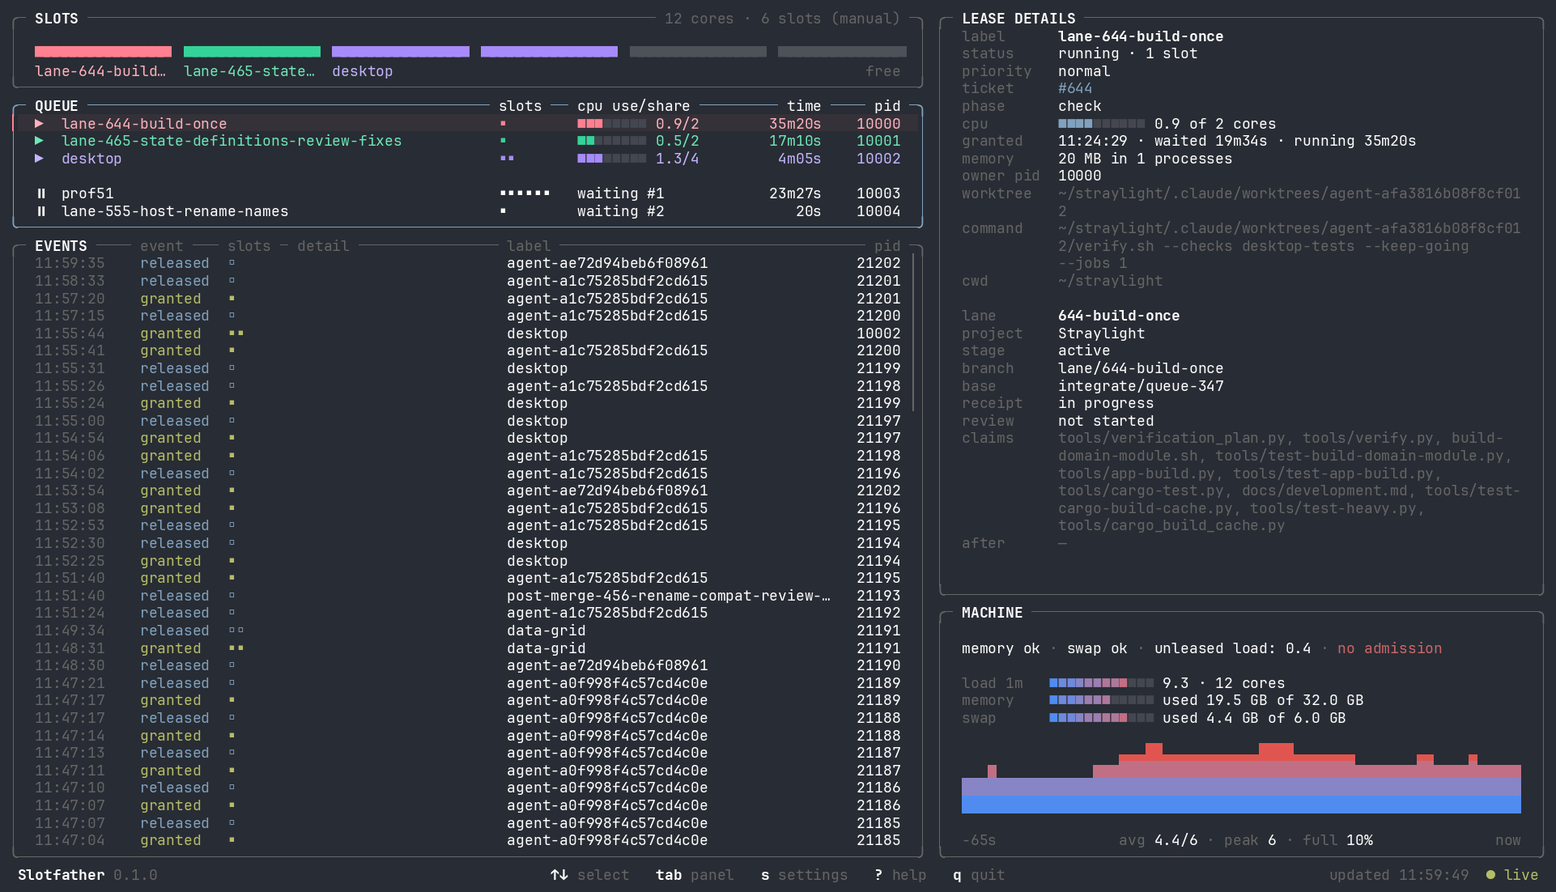
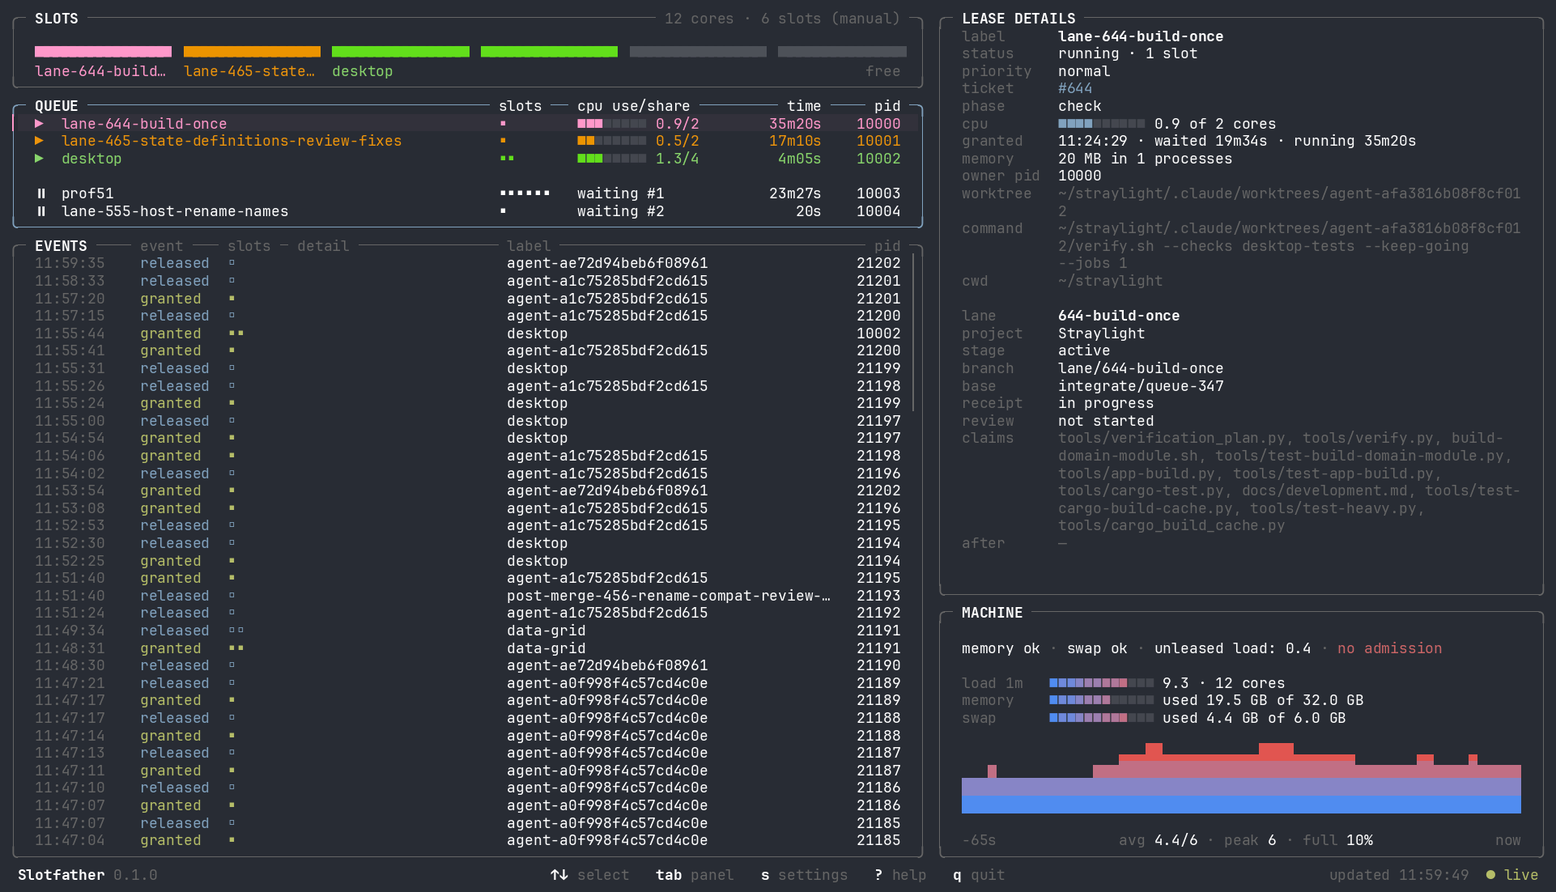
Holder palette "Neon": eight saturated hues, fill at chroma 0.24, ink at 4.6:1 (#14)
The owner's pick of five palettes. Hues in order 350, 68, 138, 172, 205, 288,
318, 152; the fill is OKLCH chroma 0.24 clamped to sRGB at lightness 0.73
(light) or 0.80 (dark); the ink is the same hue at chroma 0.16 at most,
searched from the fill's lightness until it reads at 4.6:1. The reserved-colour
distance, the blue-hue ban, nudge-or-drop and the selection tint rule stay. A
lightness nudge tries deeper first, where sRGB keeps more chroma.

diff --git a/slotfather/tests/test_theme.py b/slotfather/tests/test_theme.py
@@ -80,9 +80,6 @@ def hexes(text: str) -> list[tuple[int, int, int]]:
     return [(int(code[1:3], 16), int(code[3:5], 16), int(code[5:7], 16)) for code in text.split()]
 
 
-# The owner's mock (2026-11-11): fill and ink on a light background, in the order holders get them
-MOCK_LIGHT = list(zip(hexes("#f2668b #2ec4a0 #9b7bf4 #ff9248 #2bb5b0 #d77ae6 #9ad94a"),
-                      hexes("#c8264f #0b7f63 #6a45d6 #c2530a #0f7f7a #9d3bb0 #4a7a12")))
 REFERENCES = {"light": (0xFD, 0xFC, 0xFA), "dark": (0x1E, 0x1E, 0x1E)}
 # Terminal palettes' (blue, red, yellow): focus, over share and idle
 RESERVED = {"light": [hexes("#0969da #cf222e #4d2d00"), hexes("#0000ee #cd0000 #cdcd00"),
@@ -90,7 +87,9 @@ RESERVED = {"light": [hexes("#0969da #cf222e #4d2d00"), hexes("#0000ee #cd0000 #
             "dark": [hexes("#81a2be #cc6666 #f0c674"), hexes("#61afef #e06c75 #e5c07b"), hexes("#0000ee #cd0000 #cdcd00"),
                      hexes("#bd93f9 #ff5555 #f1fa8c"), hexes("#89b4fa #f38ba8 #f9e2af")]}  # Ghostty, One Dark, xterm,
 # Dracula, Catppuccin Mocha
-ORDER = ["rose", "emerald", "violet", "tangerine", "teal", "orchid", "lime", "pink", "cyan", "grape"]
+# The owner's pick (2026-11-11), "Neon": OKLCH hues in the order holders get them
+ORDER = ["hot pink", "orange", "acid green", "spring teal", "cyan", "electric violet", "magenta", "green"]
+NEON_HUES = [350, 68, 138, 172, 205, 288, 318, 152]
 
 
 def every_theme() -> list[tuple[str, tuple[int, int, int], Any]]:
@@ -107,19 +106,21 @@ class HolderColourTests(unittest.TestCase):
                     self.assertLess(abs((fill[2] - ink[2] + 180) % 360 - 180), 12, f"{holder} keeps its hue")
                     if kind == "light":
                         self.assertLess(ink[0], fill[0] - 0.08, f"{holder}: the ink is darker on a light background")
-                    else:
-                        self.assertGreater(ink[0], fill[0] + 0.04, f"{holder}: and lighter on a dark one")
-                    self.assertGreater(fill[1], 0.1, f"{holder}: a juicy fill, not a muddy one")
-                    self.assertTrue(0.65 <= fill[0] <= 0.86, f"{holder}: a candy lightness")
+                    else:  # from the fill's lightness up: a fill that already reads keeps it
+                        self.assertGreaterEqual(ink[0], fill[0] - 0.005, f"{holder}: never darker on a dark one")
+                    self.assertLessEqual(ink[1], theme.INK_CHROMA + 0.005, f"{holder}: the ink's chroma is capped")
+                    # sRGB's violet is narrow up there: a nudge lighter still keeps a clear tint
+                    self.assertGreater(fill[1], 0.07 if fill[0] > 0.8 else 0.1, f"{holder}: a vivid fill, not a muddy one")
+                    self.assertTrue(0.66 <= fill[0] <= 0.87, f"{holder}: the fill's lightness, or a nudge from it")
 
-    def test_every_ink_reads_at_four_and_a_half_to_one(self) -> None:
+    def test_every_ink_reads_at_four_point_six_to_one(self) -> None:
         for kind, background, reserved in every_theme():
             with self.subTest(kind=kind, background=background, reserved=reserved):
                 for holder in theme.holder_pairs(background, kind == "light", reserved):
-                    self.assertGreaterEqual(theme.contrast(holder.ink, background), 4.5, holder)
+                    self.assertGreaterEqual(theme.contrast(holder.ink, background), 4.6, holder)
         for light, reference in ((True, REFERENCES["light"]), (False, REFERENCES["dark"])):
             for holder in theme.holder_pairs(None, light):  # an unknown background: measured on the reference
-                self.assertGreaterEqual(theme.contrast(holder.ink, reference), 4.5, holder)
+                self.assertGreaterEqual(theme.contrast(holder.ink, reference), 4.6, holder)
 
     def test_no_fill_sits_near_the_focus_blue_the_over_share_red_or_the_idle_yellow(self) -> None:
         for kind, background, reserved in every_theme():
@@ -132,7 +133,7 @@ class HolderColourTests(unittest.TestCase):
                     self.assertGreaterEqual(theme.distance(holder.fill, yellow), theme.RESERVED_APART, f"{holder}: idle")
                 for first, second in itertools.combinations(holders, 2):
                     self.assertGreaterEqual(theme.distance(first.fill, second.fill), theme.HOLDER_APART - 1e-9)
-                self.assertGreaterEqual(len(holders), 7, "a palette takes a few hues at most")
+                self.assertEqual(8, len(holders), "these palettes leave room for every hue")
                 for holder in holders:  # no blue, sky or indigo, whichever way a hue turned
                     self.assertFalse(225 < theme.hue(holder.fill) < 280, holder)
 
@@ -140,18 +141,29 @@ class HolderColourTests(unittest.TestCase):
         self.assertEqual(ORDER, [name for name, *_ in theme.HOLDER_HUES])
         for light in (True, False):
             self.assertEqual(ORDER, [holder.name for holder in theme.holder_pairs(None, light)])
-        dracula = theme.holder_pairs(DARK_BG, False, RESERVED["dark"][3])  # its blue is a violet
-        self.assertEqual([name for name in ORDER if name != "violet"], [holder.name for holder in dracula],
-                         "violet has no room left that is not blue: dropped, the rest keep their order")
+        cyan = theme.oklch(0.73, 0.13, 205)  # a theme whose blue, red and yellow all sit on the cyan
+        self.assertEqual([name for name in ORDER if name != "cyan"],
+                         [holder.name for holder in theme.holder_pairs(LIGHT_BG, True, (cyan, cyan, cyan))],
+                         "cyan has no room left: dropped, the rest keep their order")
 
-    def test_the_light_set_is_the_owners_mock(self) -> None:
-        holders = theme.holder_pairs(REFERENCES["light"], True)
-        for holder, (fill, ink) in zip(holders, MOCK_LIGHT):
-            self.assertLess(theme.distance(holder.fill, fill), 0.02, holder)
-            self.assertLess(theme.distance(holder.ink, ink), 0.03, holder)
+    def test_the_sets_are_neon(self) -> None:
+        for kind, level in (("light", 0.73), ("dark", 0.80)):
+            reserved = RESERVED[kind][0]  # GitHub Light, Ghostty
+            holders = theme.holder_pairs(REFERENCES[kind], kind == "light", reserved)
+            for holder, angle in zip(holders, NEON_HUES):
+                with self.subTest(kind=kind, holder=holder):
+                    nudged = theme.lch(holder.fill)[0] != level and kind == "dark" and holder.name == "orange"
+                    if not nudged:  # Ghostty's yellow moves the dark orange down in lightness
+                        self.assertEqual(theme.oklch(level, 0.24, angle), holder.fill, "chroma 0.24, gamut-clamped")
+                    ink_hue = theme.lch(holder.ink)[2]
+                    self.assertLess(abs((ink_hue - angle + 180) % 360 - 180), 3)
+                    self.assertGreaterEqual(theme.contrast(holder.ink, REFERENCES[kind]), 4.6)
+        light = theme.holder_pairs(REFERENCES["light"], True, RESERVED["light"][0])
+        self.assertGreater(min(theme.distance(first.fill, second.fill)
+                               for first, second in itertools.combinations(light, 2)), 0.06, "well separated")
 
     def test_the_queried_palette_sets_what_is_reserved(self) -> None:
-        blue = theme.hex_colour("#2bb5b0")  # a teal accent: the teal holder must move or go
+        blue = theme.oklch(0.73, 0.15, 172)  # a teal accent: the spring teal holder must move or go
         found = theme.resolve("auto", answered(bg=LIGHT_BG, p4=blue), {})
         fills = [found.styles[f"f{n}"][0] for n in range(found.holders())]
         for fill in fills:
@@ -298,7 +310,7 @@ class FallbackTests(unittest.TestCase):
         self.assertEqual(("■", "block", True, "terminal", None), (found.track, found.free, found.light, found.source,
                                                                   found.selected_text))
         self.assertEqual([(h.fill, h.ink) for h in theme.holder_pairs(LIGHT_BG, True)],
-                         [(found.styles[f"f{n}"][0], found.styles[f"h{n}"][0]) for n in range(10)])
+                         [(found.styles[f"f{n}"][0], found.styles[f"h{n}"][0]) for n in range(8)])
 
     def test_tokens_follow_the_palette_and_the_default_foreground(self) -> None:
         for mode in ("auto", "terminal"):
@@ -317,7 +329,7 @@ class FallbackTests(unittest.TestCase):
         self.assertEqual(("COLORFGBG", True, theme.mix((255, 255, 255), (0, 0, 0), 0.10)),
                          (light.source, light.light, light.selection))
         self.assertEqual([h.ink for h in theme.holder_pairs((255, 255, 255), True)],
-                         [light.styles[f"h{n}"][0] for n in range(10)])
+                         [light.styles[f"h{n}"][0] for n in range(8)])
         dark = theme.resolve("auto", None, {"COLORFGBG": "15;default;0"})
         self.assertEqual(("COLORFGBG", False), (dark.source, dark.light))
 
@@ -327,7 +339,7 @@ class FallbackTests(unittest.TestCase):
             self.assertEqual((None, "░", "outline", "none", False),
                              (found.selection, found.track, found.free, found.source, found.light))
             self.assertEqual((8, 8), (found.styles["track"][0], found.styles["free"][0]))
-            self.assertEqual([h.ink for h in theme.holder_pairs(None, False)], [found.styles[f"h{n}"][0] for n in range(10)])
+            self.assertEqual([h.ink for h in theme.holder_pairs(None, False)], [found.styles[f"h{n}"][0] for n in range(8)])
         hinted = theme.Answers()
         hinted.feed("\x1b[?997;2n")
         self.assertTrue(theme.resolve("auto", hinted, {}).light, "a light-scheme notification picks the light set")
@@ -415,9 +427,9 @@ class DrawingTests(unittest.TestCase):
         self.tool.dashboard_colours(model, assigned)
         self.assertEqual("h1", model["holders"][-1]["style"], "the colour the ended lease freed")
         self.tool.set_theme(theme.resolve("auto", None, {}))
-        model = {"holders": holders(11)}
+        model = {"holders": holders(9)}
         self.tool.dashboard_colours(model, {})
-        self.assertEqual([f"h{n}" for n in range(10)] + ["h0"], [h["style"] for h in model["holders"]])
+        self.assertEqual([f"h{n}" for n in range(8)] + ["h0"], [h["style"] for h in model["holders"]])
 
 
 class SettingTests(unittest.TestCase):

diff --git a/slotfather/src/slotfather/theme.py b/slotfather/src/slotfather/theme.py
@@ -34,21 +34,16 @@ MODE_LABELS = {"auto": "Auto", "terminal": "Terminal", "builtin": "Built-in"}
 SELECTION_MIX, TRACK_MIX, FREE_MIX = 0.10, 0.15, 0.20
 TINT_MIX = 0.16  # a selected running row's background: this much of its holder fill in the background (#15)
 TINT_KEEP = 0.9  # the share of its ink's contrast a tint keeps; a fill that would take more is mixed in less
-# Holder colours (owner, 2026-11-11): two tokens per holder. The fill paints what needs no text contrast (SLOTS
-# blocks, slot cells, the CPU bar, the selection marker and tint), a juicy candy colour; the ink, the same hue
-# darker on a light background and lighter on a dark one, paints the label and the numbers at MIN_INK or more.
-# Handed out in this order; anchors (fill, ink) on a light background (the owner's mock) and on a dark one (about
-# Tailwind's 400 and 300 shades). No blue, sky or indigo: the theme's blue marks the focused panel.
-HOLDER_HUES = (("rose", "#f2668b", "#c8264f", "#fb7185", "#fda4af"),
-               ("emerald", "#2ec4a0", "#0b7f63", "#34d399", "#6ee7b7"),
-               ("violet", "#9b7bf4", "#6a45d6", "#a78bfa", "#c4b5fd"),
-               ("tangerine", "#ff9248", "#c2530a", "#fb923c", "#fdba74"),
-               ("teal", "#2bb5b0", "#0f7f7a", "#2dd4bf", "#5eead4"),
-               ("orchid", "#d77ae6", "#9d3bb0", "#e879f9", "#f0abfc"),
-               ("lime", "#9ad94a", "#4a7a12", "#a3e635", "#bef264"),
-               ("pink", "#f06aae", "#b8236f", "#f472b6", "#f9a8d4"),
-               ("cyan", "#23b8d0", "#0a7286", "#22d3ee", "#67e8f9"),
-               ("grape", "#bb76f0", "#8a32c8", "#c084fc", "#d8b4fe"))
+# Holder colours (owner, 2026-11-11, the "Neon" set): two tokens per holder. The fill paints what needs no text
+# contrast (SLOTS blocks, slot cells, the CPU bar, the selection marker and tint): OKLCH chroma FILL_CHROMA, as much
+# as sRGB holds at that hue, at FILL_LIGHT or FILL_DARK lightness. The ink, the same hue at INK_CHROMA at most, starts
+# at the fill's lightness and darkens on a light background, lightens on a dark one, until it reads at MIN_INK; it
+# paints the label and the numbers. Handed out in this order (name, OKLCH hue). No blue, sky or indigo: the theme's
+# blue marks the focused panel.
+HOLDER_HUES = (("hot pink", 350.0), ("orange", 68.0), ("acid green", 138.0), ("spring teal", 172.0),
+               ("cyan", 205.0), ("electric violet", 288.0), ("magenta", 318.0), ("green", 152.0))
+FILL_CHROMA, INK_CHROMA = 0.24, 0.16
+FILL_LIGHT, FILL_DARK = 0.73, 0.80  # a fill's lightness on a light and on a dark background
 HOLDERS = len(HOLDER_HUES)
 
 
@@ -58,11 +53,11 @@ class Holder(NamedTuple):
     ink: RGB
 
 
-MIN_INK = 4.5  # a holder's ink against the background (WCAG AA for text)
+MIN_INK = 4.6  # a holder's ink against the background (WCAG AA for text, with a margin)
 RESERVED_APART = 0.12  # ΔE a holder's fill keeps from the theme's blue (focus), red (over share) and yellow (idle)
 HOLDER_APART = 0.045  # ΔE a holder's fill keeps from the ones handed out before it
 MOST_TURN = 30  # degrees a fill's hue turns at most to keep those apart; a hue with no room left is dropped
-LIGHTNESS_SHIFTS = (0.0, 0.03, -0.03, 0.06, -0.06)  # or the lightness it moves by, lighter first
+LIGHTNESS_SHIFTS = (0.0, -0.03, 0.03, -0.06, 0.06)  # or the lightness it moves by, deeper first (more chroma)
 BLUE_HUES = (225.0, 280.0)  # OKLCH hues no fill turns into, whatever the theme's blue: sky, blue and indigo
 LIGHTNESS_STEP = 0.005
 # The theme's blue, red and yellow where the terminal does not say them: on a light background GitHub Light's
@@ -209,22 +204,20 @@ def lch(rgb: RGB) -> Tuple[float, float, float]:
     return lightness, math.hypot(a, b), math.degrees(math.atan2(b, a)) % 360
 
 
-def ink_for(anchor: RGB, angle: float, background: RGB, shift: float = 0.0) -> RGB:
-    """The ink at the anchor's lightness (moved by `shift`, as its fill was) and chroma in hue `angle`, moved away
-    from the background in lightness until it reads at MIN_INK."""
-    lightness, chroma, _ = lch(anchor)
-    lightness = min(0.97, max(0.2, lightness + shift))
+def ink_for(lightness: float, angle: float, background: RGB) -> RGB:
+    """The ink in hue `angle` at INK_CHROMA (less where sRGB has less), from the fill's lightness away from the
+    background until it reads at MIN_INK."""
     away = -1 if is_light(background) else 1
-    colour = oklch(lightness, chroma, angle)
+    colour = oklch(lightness, INK_CHROMA, angle)
     while contrast(colour, background) < MIN_INK and 0 < lightness < 1:
         lightness += away * LIGHTNESS_STEP
-        colour = oklch(lightness, chroma, angle)
+        colour = oklch(lightness, INK_CHROMA, angle)
     return colour
 
 
 def holder_pairs(background: Optional[RGB], light: bool,
                  reserved: Optional[Sequence[RGB]] = None) -> List[Holder]:
-    """The holders for this background in HOLDER_HUES order: each hue's anchor fill, turned away a few degrees at a
+    """The holders for this background in HOLDER_HUES order: each hue's fill, turned away a few degrees at a
     time from a reserved colour (the theme's blue, red and yellow) it is within RESERVED_APART of, or from an earlier
     holder within HOLDER_APART; a hue that finds no room within MOST_TURN is dropped. The ink keeps the fill's turn
     and reads at MIN_INK on the background (a reference one where it is unknown)."""
@@ -235,22 +228,21 @@ def holder_pairs(background: Optional[RGB], light: bool,
 def _holder_pairs(background: Optional[RGB], light: bool, reserved: Tuple[RGB, ...]) -> Tuple[Holder, ...]:
     surface = background or (LIGHT_REFERENCE if light else DARK_REFERENCE)
     found: List[Holder] = []
-    for name, light_fill, light_ink, dark_fill, dark_ink in HOLDER_HUES:
-        fill, ink = (hex_colour(light_fill), hex_colour(light_ink)) if light else (hex_colour(dark_fill),
-                                                                                 hex_colour(dark_ink))
-        lightness, chroma, angle = lch(fill)
+    level = FILL_LIGHT if light else FILL_DARK
+    for name, angle in HOLDER_HUES:
+        fill = oklch(level, FILL_CHROMA, angle)
         nearest = min(reserved, key=lambda colour: distance(colour, fill))
         away = -1 if (hue(nearest) - angle) % 360 < 180 else 1  # turn away from the nearest reserved colour first
         # The smallest change first: a few degrees of hue, or a little lightness (0.01 costs as much as 2.5°)
-        tries = sorted(((abs(turn) + abs(shift) * 250, turn, shift)
-                        for turn in sorted(range(-MOST_TURN, MOST_TURN + 1, 2), key=lambda turn: (abs(turn), turn != away * abs(turn)))
-                        for shift in LIGHTNESS_SHIFTS), key=lambda item: item[0])
+        turns = sorted(range(-MOST_TURN, MOST_TURN + 1, 2), key=lambda turn: (abs(turn), turn != away * abs(turn)))
+        tries = sorted(((abs(turn) + abs(shift) * 250, turn, shift) for turn in turns for shift in LIGHTNESS_SHIFTS),
+                       key=lambda item: item[0])
         for _, turn, shift in tries:
-            colour = oklch(lightness + shift, chroma, (angle + turn) % 360) if turn or shift else fill
+            colour = oklch(level + shift, FILL_CHROMA, (angle + turn) % 360)
             if (not BLUE_HUES[0] < hue(colour) < BLUE_HUES[1]
                     and all(distance(colour, other) >= RESERVED_APART for other in reserved)
                     and all(distance(colour, earlier.fill) >= HOLDER_APART for earlier in found)):
-                found.append(Holder(name, colour, ink_for(ink, (lch(ink)[2] + turn) % 360, surface, shift)))
+                found.append(Holder(name, colour, ink_for(level + shift, (angle + turn) % 360, surface)))
                 break
     return tuple(found)
 

diff --git a/slotfather/tests/test_marks.py b/slotfather/tests/test_marks.py
@@ -223,14 +223,14 @@ class TintTests(unittest.TestCase):
             found = theme.resolve("auto", environ=environ)
             background = found.background
             assert background is not None
-            self.assertEqual(10, len(found.tints))
+            self.assertEqual(8, len(found.tints))
             for name, tinted in found.tints.items():
                 ink, fill = found.styles[name][0], found.styles["f" + name[1:]][0]
                 assert isinstance(ink, tuple) and isinstance(fill, tuple)
                 mixes = [theme.mix(background, fill, step / 100) for step in range(1, 19)]
                 self.assertIn(tinted, mixes, f"{name}: its fill in the background, at most 18%")
                 plain = theme.contrast(ink, background)
-                self.assertGreaterEqual(plain, 4.5)
+                self.assertGreaterEqual(plain, 4.6)
                 self.assertGreaterEqual(theme.contrast(ink, tinted), 0.9 * plain - 1e-9, (name, tinted))
                 step = mixes.index(tinted) + 1
                 stronger = theme.mix(background, fill, (step + 1) / 100)

diff --git a/slotfather/tests/test_dashboard.py b/slotfather/tests/test_dashboard.py
@@ -787,7 +787,7 @@ class SlotBarTests(unittest.TestCase):
                         holders=[dict(count=2, kind="held", style="h3", label="build")]))
         self.assertEqual({"f3"}, {cell[1] for cell in canvas.cells[0] if cell[0] == "🮅"} - {"free"})
         self.assertEqual({"h3"}, {cell[1] for cell in canvas.cells[1][2:7]})
-        self.assertNotEqual(tool.current_theme.styles["f3"], tool.current_theme.styles["h3"], "two tokens")
+        self.assertIn("f3", tool.current_theme.styles, "two tokens (on a dark background a fill that reads is its ink)")
 
 
 class MachineStatusTests(unittest.TestCase):

diff --git a/slotfather/src/slotfather/dashboard.py b/slotfather/src/slotfather/dashboard.py
@@ -706,7 +706,7 @@ def dashboard_colours(model: dict, assigned: dict) -> None:
     keys = {h["key"] for h in model["holders"]}
     for key in [key for key in assigned if key not in keys]:
         del assigned[key]
-    count = current_theme.holders()  # 10 holder colours less any the theme reserves, or the builtin 6 (#14)
+    count = current_theme.holders()  # 8 holder colours less any the theme reserves, or the builtin 6 (#14)
     for holder in model["holders"]:
         if holder["kind"] != "held":
             continue

diff --git a/slotfather/docs/dashboard.md b/slotfather/docs/dashboard.md
@@ -184,17 +184,18 @@ between light and dark, the dashboard asks again and repaints. A terminal that d
 dark by `COLORFGBG`; with neither, the surfaces have no background colour: tracks are `░` in bright black, a free
 slot is an outline and the selected row is bold beside its ▶.
 
-Holder colours are the dashboard's own, two tokens per holder. The **fill**, a vivid candy colour (OKLCH lightness
-about 0.67–0.82 on a light background, 0.71–0.85 on a dark one), paints what needs no text contrast: the SLOTS
-blocks, the QUEUE slot cells, the CPU bar, the selection marker and its tint. The **ink**, the same hue darker on a
-light background and lighter on a dark one, paints the label, the numbers and the SLOTS labels, at 4.5:1 or more
-against the reported background (a reference `#fdfcfa` or `#1e1e1e` where none is reported). Ten hues are handed
-out in order: rose, emerald, violet, tangerine, teal, orchid, lime, pink, cyan, grape, anchored on the owner's
-mock on light backgrounds and about Tailwind's 400 (fill) and 300 (ink) shades on dark ones. No hue may sit within
+Holder colours are the dashboard's own ("Neon"), two tokens per holder. The **fill** paints what needs no text
+contrast: the SLOTS blocks, the QUEUE slot cells, the CPU bar, the selection marker and its tint. It is OKLCH
+chroma 0.24, lowered only as far as sRGB requires at its hue, at lightness 0.73 on a light background and 0.80 on
+a dark one. The **ink** paints the label, the numbers and the SLOTS labels: the same hue at chroma 0.16 at most,
+from the fill's lightness darker (light background) or lighter (dark background) until it reads at 4.6:1 against
+the reported background (a reference `#fdfcfa` or `#1e1e1e` where none is reported); on a dark background a fill
+that already reads is its own ink. Eight hues are handed out in order: hot pink (350), orange (68), acid green
+(138), spring teal (172), cyan (205), electric violet (288), magenta (318), green (152). No fill may sit within
 OKLab ΔE 0.12 of the theme's blue (the focused panel's frame), red (a CPU bar over its share) or yellow (an idle
-lease), measured on the colours the terminal reports: a hue too close turns away a few degrees at a time (at most
-30°) or moves a little in lightness, the smallest change first, and one with no room left is dropped (Dracula,
-whose blue is a violet, drops violet). No fill turns into blue, sky or indigo (OKLCH hues 225–280). The load chart runs from the theme's blue to its red in OKLab, without the terminal's answer
+lease), measured on the colours the terminal reports: a fill too close turns away a few degrees at a time (at most
+30°) or moves a little in lightness, the smallest change first, and one with no room left is dropped. No fill
+turns into blue, sky or indigo (OKLCH hues 225–280). The load chart runs from the theme's blue to its red in OKLab, without the terminal's answer
 from a fixed blue to red.
 
 Settings → this dashboard → **Colour theme**: `Auto` is the above; `Terminal` uses the palette only, with nothing

diff --git a/slotfather/CHANGELOG.md b/slotfather/CHANGELOG.md
@@ -17,9 +17,11 @@ Versions and release rules: [docs/agents/publishing.md](docs/agents/publishing.m
 - Tab goes by columns: QUEUE, EVENTS, then DETAILS (top to bottom in one column), only through panels on
   screen.
 - Holder colours come in pairs: a vivid fill for slot blocks, cells, CPU bars and the selection, and an ink of
-  the same hue for labels and numbers, readable at 4.5:1 on light and dark backgrounds. Ten hues, none near the
-  theme's blue, red or yellow, so a holder is never taken for the focused frame, an over-share bar or an idle
-  lease; the selected row's tint is stronger on light backgrounds.
+  the same hue for labels and numbers, readable on light and dark backgrounds. None sits near the theme's blue,
+  red or yellow, so a holder is never taken for the focused frame, an over-share bar or an idle lease; the
+  selected row's tint is stronger on light backgrounds.
+- The holder palette is "Neon": eight saturated hues (hot pink, orange, acid green, spring teal, cyan, electric
+  violet, magenta, green), more distinct from one another, with inks at 4.6:1 or more.
 
 ### Fixed
 
